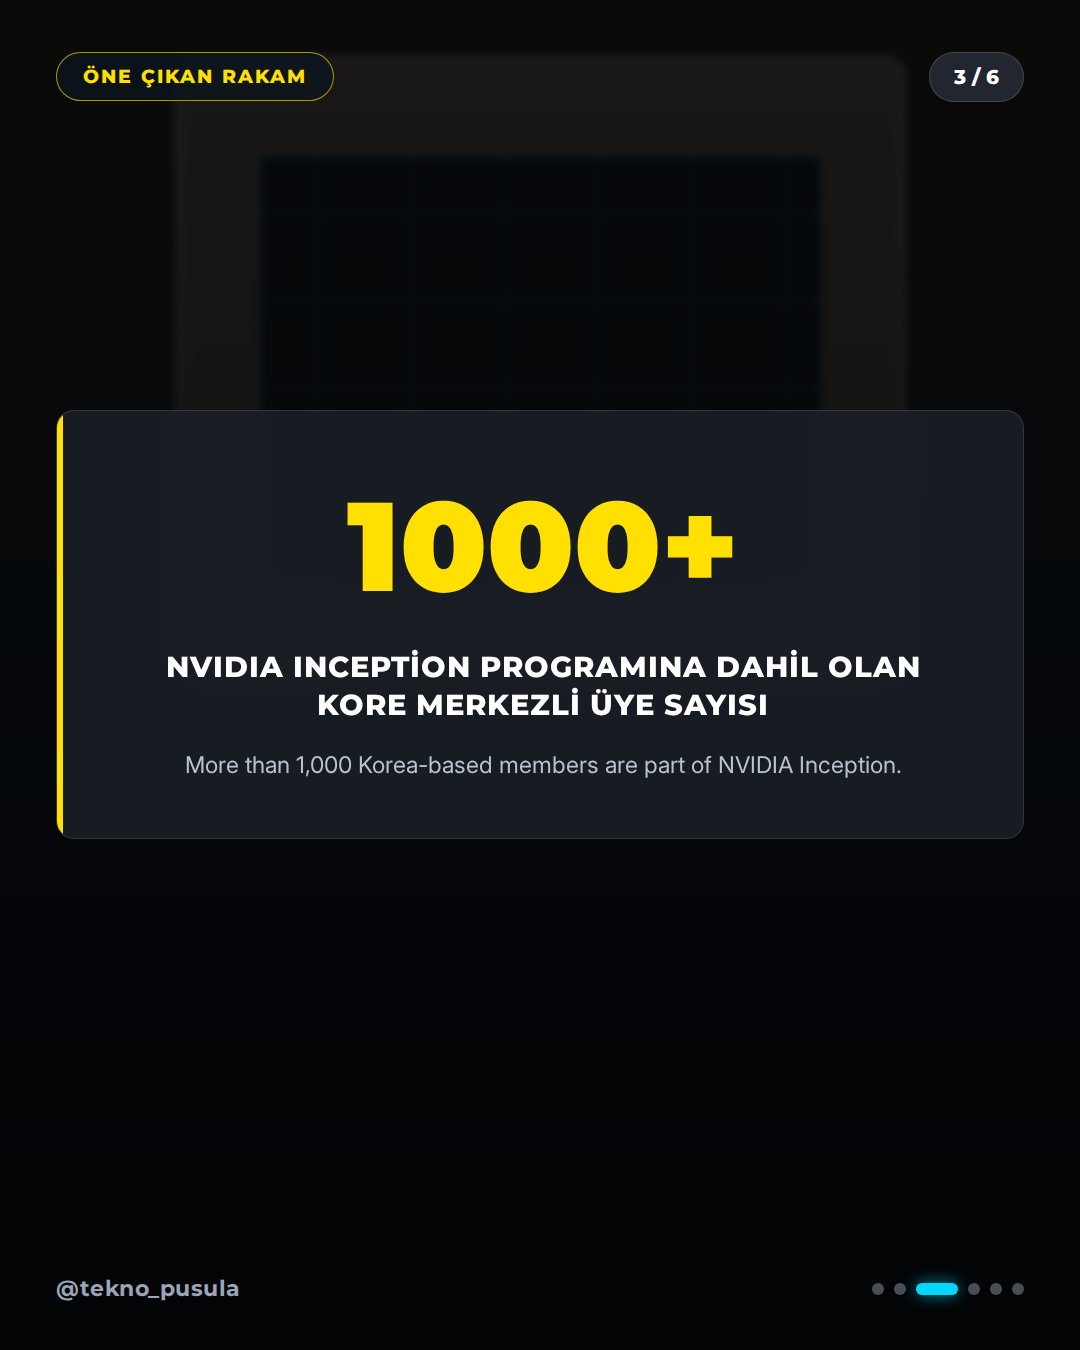
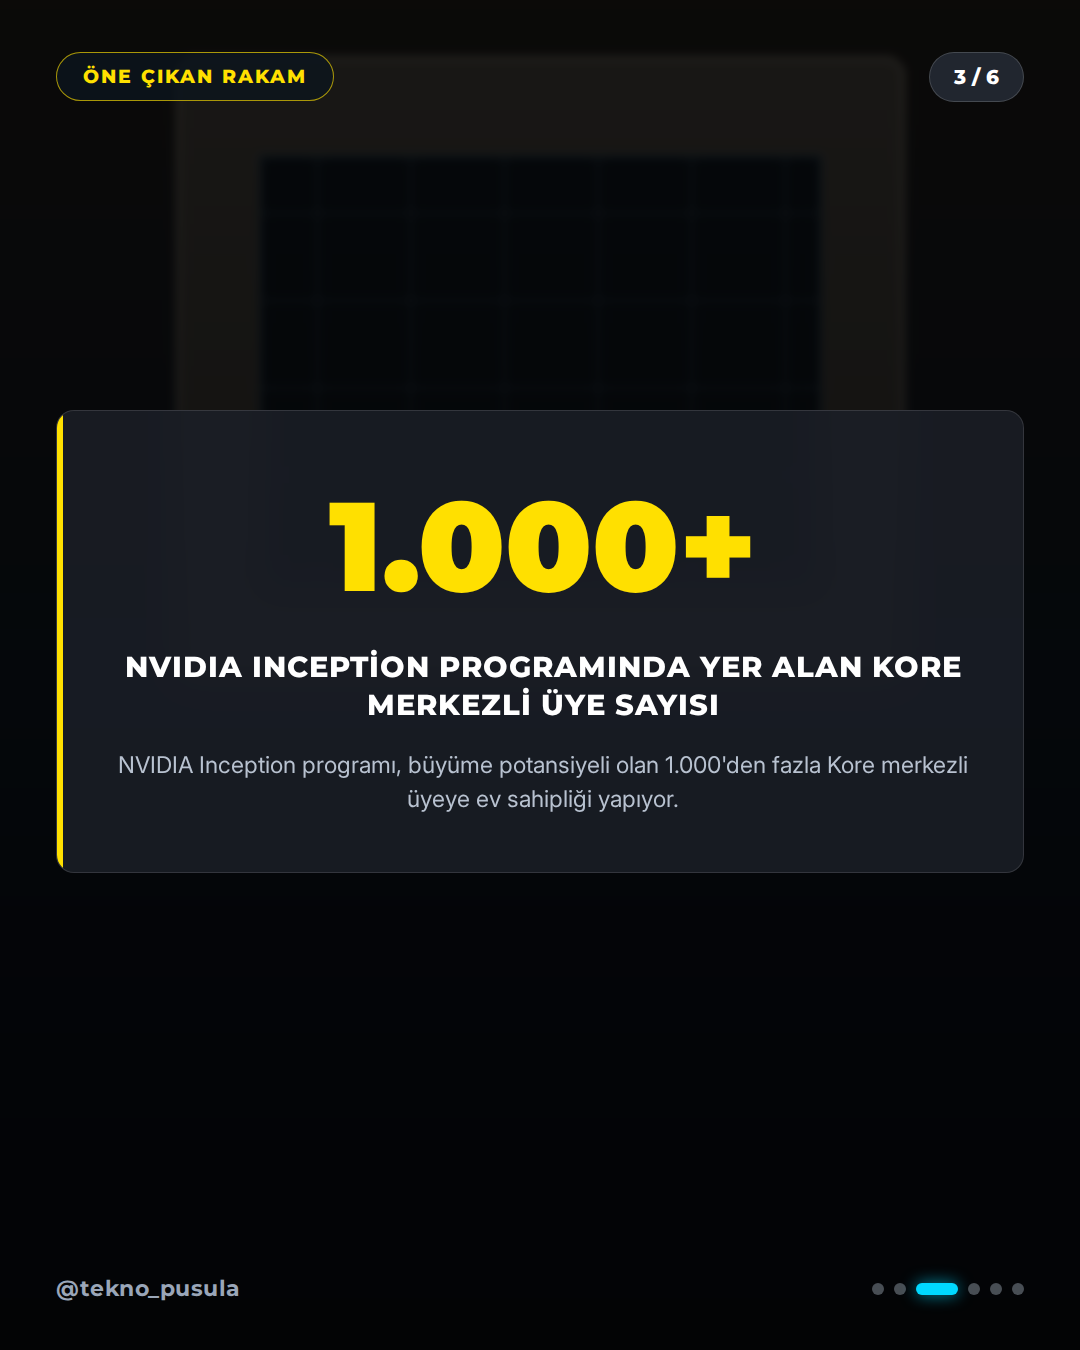
🤖 post: 2026-11-09 09:00 – NVIDIA Announces New Planned Investments in Korean Startups

Changed region(s): [[0.0306, 0.56, 0.9472, 0.6533], [0.1222, 0.4667, 0.8861, 0.5289], [0.3056, 0.3733, 0.7028, 0.4356]]

diff --git a/output/2026-11-09/01-0900-nvidia-announces-new-planned-investments-in-kore/verification.md b/output/2026-11-09/01-0900-nvidia-announces-new-planned-investments-in-kore/verification.md
@@ -3,14 +3,14 @@
 **Haber:** NVIDIA Announces New Planned Investments in Korean Startups at the MSIT-NVIDIA AI Startup Partnership Forum
 **Canonical URL:** https://blogs.nvidia.com/blog/korean-startup-investments-msit/
 **Kaynaklar:** NVIDIA Newsroom, TechCrunch, NVIDIA Newsroom, The Verge
-**Kontrol zamanı:** 2026-11-09T12:52:41+03:00
+**Kontrol zamanı:** 2026-11-09T12:57:59+03:00
 **Sonuç:** ✅ YAYINLANABİLİR
 
 ---
 
 ## İddia Bazlı Sonuçlar
 
-### 1. Korea's Ministry of Science and ICT and NVIDIA hosted the MSIT-NVIDIA AI Startup Partnership Forum at COEX.
+### 1. Korea’s Ministry of Science and ICT and NVIDIA hosted the MSIT-NVIDIA AI Startup Partnership Forum at COEX.
 - **Karar:** ✅ `supported`
 - **Kanıtlar:**
   - [https://blogs.nvidia.com/blog/korean-startup-investments-msit/](https://blogs.nvidia.com/blog/korean-startup-investments-msit/)
@@ -28,43 +28,41 @@
   - [https://blogs.nvidia.com/blog/korean-startup-investments-msit/](https://blogs.nvidia.com/blog/korean-startup-investments-msit/)
     > NVIDIA also announced an investment in Korean startup Point2, with additional investments planned in Motif Technologies, RLWRLD and Upstage.
 
-### 4. Point2 Technology builds scalable, radio frequency-based interconnects that move data between chips and racks in AI factories.
+### 4. Point2 Technology is an AI interconnect company that builds scalable, radio frequency-based interconnects to move data between chips and racks in AI factories.
 - **Karar:** ✅ `supported`
 - **Kanıtlar:**
   - [https://blogs.nvidia.com/blog/korean-startup-investments-msit/](https://blogs.nvidia.com/blog/korean-startup-investments-msit/)
     > Point2 Technology, an AI interconnect company, builds scalable, radio frequency-based interconnects that move data between chips and racks in AI factories
-  - [https://blogs.nvidia.com/blog/korean-startup-investments-msit/](https://blogs.nvidia.com/blog/korean-startup-investments-msit/)
-    > Point2 Technology, an AI interconnect company, builds scalable, radio frequency-based interconnects that move data between chips and racks in AI factories, offering an innovative alternative to conventional copper and optical interconnect solutions for AI cluster scale-up, delivering the reach, performance and efficiency needed for next-generation AI infrastructure.
 
-### 5. Motif Technologies is a Seoul-based AI lab that developed Motif-3, a large language model released with open weights.
+### 5. Motif Technologies is a Seoul-based AI lab that develops foundation models for building AI agents, including the open-weight large language model Motif-3.
 - **Karar:** ✅ `supported`
 - **Kanıtlar:**
   - [https://blogs.nvidia.com/blog/korean-startup-investments-msit/](https://blogs.nvidia.com/blog/korean-startup-investments-msit/)
     > Motif Technologies, a Seoul-based AI lab, develops foundation models for building AI agents that carry out complex tasks, including Motif-3, a large language model released with open weights.
 
-### 6. RLWRLD is a physical AI startup based in San Francisco, Seoul and Tokyo that develops robotics foundation models.
+### 6. RLWRLD is a physical AI startup based in San Francisco, Seoul and Tokyo that develops robotics foundation models for humanoid and industrial robots.
 - **Karar:** ✅ `supported`
 - **Kanıtlar:**
   - [https://blogs.nvidia.com/blog/korean-startup-investments-msit/](https://blogs.nvidia.com/blog/korean-startup-investments-msit/)
-    > RLWRLD, a physical AI startup based in San Francisco, Seoul and Tokyo, develops robotics foundation models
+    > RLWRLD, a physical AI startup based in San Francisco, Seoul and Tokyo, develops robotics foundation models that enable humanoid and industrial robots
   - [https://blogs.nvidia.com/blog/korean-startup-investments-msit/](https://blogs.nvidia.com/blog/korean-startup-investments-msit/)
-    > RLWRLD, a physical AI startup based in San Francisco, Seoul and Tokyo, develops robotics foundation models that enable humanoid and industrial robots to perform complex real-world tasks that require five-finger dexterity, such as precisely inserting components, threading nuts onto bolts and kitting parts from moving conveyors.
+    > RLWRLD, a physical AI startup based in San Francisco, Seoul and Tokyo, develops robotics foundation models that enable humanoid and industrial robots to perform complex real-world tasks that require five-finger dexterity
 
-### 7. Upstage is a Korean enterprise AI company that develops Solar language models and document AI tools.
+### 7. Upstage is a Korean enterprise AI company that develops Solar language models and document AI tools for businesses.
 - **Karar:** ✅ `supported`
 - **Kanıtlar:**
   - [https://blogs.nvidia.com/blog/korean-startup-investments-msit/](https://blogs.nvidia.com/blog/korean-startup-investments-msit/)
-    > Upstage, a Korean enterprise AI company, develops Solar language models and document AI tools
+    > Upstage, a Korean enterprise AI company, develops Solar language models and document AI tools that help businesses extract information from complex documents
   - [https://blogs.nvidia.com/blog/korean-startup-investments-msit/](https://blogs.nvidia.com/blog/korean-startup-investments-msit/)
     > Upstage, a Korean enterprise AI company, develops Solar language models and document AI tools that help businesses extract information from complex documents, streamline workflows and build AI applications for everyday operations.
 
-### 8. More than 1,000 Korea-based members are part of NVIDIA Inception, a program that helps startups grow.
+### 8. NVIDIA Inception program has more than 1,000 Korea-based members to help startups grow.
 - **Karar:** ✅ `supported`
 - **Kanıtlar:**
   - [https://blogs.nvidia.com/blog/korean-startup-investments-msit/](https://blogs.nvidia.com/blog/korean-startup-investments-msit/)
     > more than 1,000 Korea-based members of NVIDIA Inception, a program that helps startups grow
   - [https://blogs.nvidia.com/blog/korean-startup-investments-msit/](https://blogs.nvidia.com/blog/korean-startup-investments-msit/)
-    > The planned investments build on NVIDIA’s work with Korea’s startup and venture community, including more than 1,000 Korea-based members of NVIDIA Inception, a program that helps startups grow with access to preferred pricing, technical expertise and opportunities for investor introductions.
+    > including more than 1,000 Korea-based members of NVIDIA Inception, a program that helps startups grow with access to preferred pricing, technical expertise and opportunities for investor introductions.
 
 ---
 
@@ -72,14 +70,14 @@
 
 | İddia | 1. Tur | 2. Tur | Nihai |
 |-------|--------|--------|-------|
-| Korea's Ministry of Science and ICT and NVIDIA hosted the MS | supported | supported | supported |
+| Korea’s Ministry of Science and ICT and NVIDIA hosted the MS | supported | supported | supported |
 | Ryu Je-myung, vice minister of science and ICT, met with ove | supported | supported | supported |
 | NVIDIA announced an investment in Korean startup Point2, wit | supported | supported | supported |
-| Point2 Technology builds scalable, radio frequency-based int | supported | supported | supported |
-| Motif Technologies is a Seoul-based AI lab that developed Mo | supported | supported | supported |
+| Point2 Technology is an AI interconnect company that builds  | supported | supported | supported |
+| Motif Technologies is a Seoul-based AI lab that develops fou | supported | supported | supported |
 | RLWRLD is a physical AI startup based in San Francisco, Seou | supported | supported | supported |
 | Upstage is a Korean enterprise AI company that develops Sola | supported | supported | supported |
-| More than 1,000 Korea-based members are part of NVIDIA Incep | supported | supported | supported |
+| NVIDIA Inception program has more than 1,000 Korea-based mem | supported | supported | supported |
 
 ## Kaynak Metinleri
 

diff --git a/output/2026-11-09/01-0900-nvidia-announces-new-planned-investments-in-kore/captions.md b/output/2026-11-09/01-0900-nvidia-announces-new-planned-investments-in-kore/captions.md
@@ -2,46 +2,44 @@
 
 ## INSTAGRAM
 
-NVIDIA ve Güney Kore yapay zeka ekosistemini dönüştürecek dev bir ortaklığa imza attı! COEX'te gerçekleşen MSIT-NVIDIA AI Startup Partnership Forumu'nda 20'den fazla girişim bir araya geldi. NVIDIA Inception programına dahil olan Kore merkezli üye sayısı şimdiden 1000'i aştı. Point2 Technology, Motif Technologies ve Upstage gibi öncü şirketlere yatırımlar planlanıyor. Sizce bu ortaklıklar Kore'deki yapay zeka ekosistemini nasıl dönüştürecek? Kaynak: NVIDIA Newsroom, TechCrunch
+NVIDIA ve Güney Kore'den dev yapay zeka hamlesi! MSIT-NVIDIA AI Startup Partnership Forum kapsamında 20'den fazla Koreli girişimle bir araya gelindi. Point2 Technology, Motif ve Upstage gibi şirketlere yapılan yatırımlar dikkat çekiyor. NVIDIA Inception programında ise 1.000'den fazla Koreli üye yer alıyor. Sizce bu ortaklık yapay zeka pazarını nasıl dönüştürür? Kaynak: NVIDIA Newsroom, TechCrunch
 
-#NVIDIA #YapayZeka #Girişimcilik #Teknoloji #GüneyKore #AIStartup #Inception #TechNews #Yatırım #İnovasyon
+#NVIDIA #YapayZeka #Teknoloji #Girişimcilik #GüneyKore #AI #Startup #Inovasyon #Yarıİletken #Gelecek
 
 ## TIKTOK
 
-NVIDIA ve Güney Kore'den yapay zeka dünyasını sarsacak hamle! 1000'den fazla Koreli girişim bu programda. Sizce bu ortaklık neleri değiştirecek? Kaynak: NVIDIA Newsroom
+NVIDIA ve Güney Kore yapay zeka dünyasını sallayacak dev bir ortaklığa imza attı! 1.000'den fazla girişime ev sahipliği yapıyorlar. Sence bu hamle sektörü nasıl etkiler? Kaynak: NVIDIA Newsroom
 
-#NVIDIA #YapayZeka #Teknoloji #Girişim #Kore
+#NVIDIA #YapayZeka #Teknoloji #Girişim #Gelecek
 
 ## X
 
-NVIDIA ve Güney Kore'den dev AI hamlesi! MSIT-NVIDIA Forumu'nda 20'den fazla girişim buluştu. NVIDIA Inception'daki Koreli üye sayısı 1000'i aştı, yeni yatırımlar yolda. Sizce bu ortaklık ekosistemi nasıl etkiler? Kaynak: NVIDIA Newsroom #NVIDIA #YapayZeka
+NVIDIA ve Güney Kore, MSIT-NVIDIA AI Startup Partnership Forumu'nda bir araya geldi. Point2 ve Upstage gibi kritik yatırımlarla yapay zeka ekosistemi büyüyor! Kaynak: NVIDIA Newsroom #NVIDIA #YapayZeka
 
 #NVIDIA #YapayZeka
 
 ## THREADS
 
-NVIDIA ve Güney Kore'den Yapay Zeka Hamlesi 🚀
+NVIDIA ve Kore'den Dev Yapay Zeka Hamlesi 🚀
 
-MSIT-NVIDIA AI Startup Partnership Forumu COEX'te gerçekleşti. NVIDIA Inception programındaki Kore merkezli üye sayısı 1000'i aştı ve Point2, Motif, Upstage gibi dev isimlere yatırımlar planlanıyor.
+MSIT-NVIDIA ortaklığıyla 20'den fazla Koreli girişim destekleniyor. 1.000'den fazla üyesi bulunan Inception programı büyümeye devam ediyor.
 
-Sizce bu ortaklıklar ekosistemi nasıl dönüştürecek?
+Sizce bu iş birliği donanım pazarını nasıl etkiler?
 
 💭 Kaynak: NVIDIA Newsroom
 
 #NVIDIA
 
+#NVIDIA
+
 ## LINKEDIN
 
-NVIDIA ve Güney Kore Hükümeti (MSIT), yapay zeka ekosistemini güçlendirecek stratejik bir iş birliğine imza attı. COEX'te düzenlenen forumda 20'den fazla yerli girişim teknoloji devleriyle bir araya geldi.
+NVIDIA ve Güney Kore Bilim ve ICT Bakanlığı (MSIT), yapay zeka ekosistemini güçlendirecek stratejik bir ortaklığa imza attı. Düzenlenen forumda altyapı, fiziksel yapay zeka ve yarı iletken alanındaki 20'den fazla girişim destekleniyor. Point2 Technology ve Upstage gibi şirketlere yapılan yatırımlar, küresel yapay zeka tedarik zinciri ve donanım pazarının geleceğini şekillendiriyor. Kaynak: NVIDIA Newsroom, TechCrunch
 
-NVIDIA Inception programına dahil olan Kore merkezli üye sayısının 1000'i aşması, bölgedeki inovasyon potansiyelini açıkça gösteriyor. Point2 Technology, Motif Technologies ve Upstage gibi şirketlere yapılması planlanan yatırımlar, donanım ve temel dil modelleri alanındaki çalışmaları hızlandıracak.
-
-Sizce bu tür uluslararası ortaklıklar bölgesel yapay zeka pazarlarını nasıl şekillendirecek? Kaynak: NVIDIA Newsroom, TechCrunch
-
-#NVIDIA #ArtificialIntelligence #Teknoloji #Girişimcilik #Yatırım
+#NVIDIA #ArtificialIntelligence #YapayZeka #Teknoloji #İşDünyası
 
 ## FACEBOOK
 
-NVIDIA ve Güney Kore'den yapay zeka alanında dev adım! COEX'te gerçekleşen forumda geleceğin teknolojileri masaya yatırıldı. 1000'den fazla Koreli üyesi bulunan NVIDIA Inception programı büyümeye devam ediyor ve yeni yatırımlar planlanıyor. Sizce bu ortaklıklar Kore'deki yapay zeka ekosistemini nasıl dönüştürecek? Kaynak: NVIDIA Newsroom
+NVIDIA ve Güney Kore'den yapay zeka alanında büyük iş birliği! MSIT-NVIDIA AI Startup Partnership Forum'da geleceğin teknolojilerini geliştiren 20'den fazla girişim desteklendi. 1.000'den fazla Koreli üyesi bulunan NVIDIA Inception programı hız kesmeden büyüyor. Bu ortaklık hakkındaki düşünceleriniz neler? Kaynak: NVIDIA Newsroom, TechCrunch
 
-#NVIDIA #YapayZeka #Teknoloji #Girişim #Kore
+#NVIDIA #YapayZeka #Teknoloji #Girişimcilik
